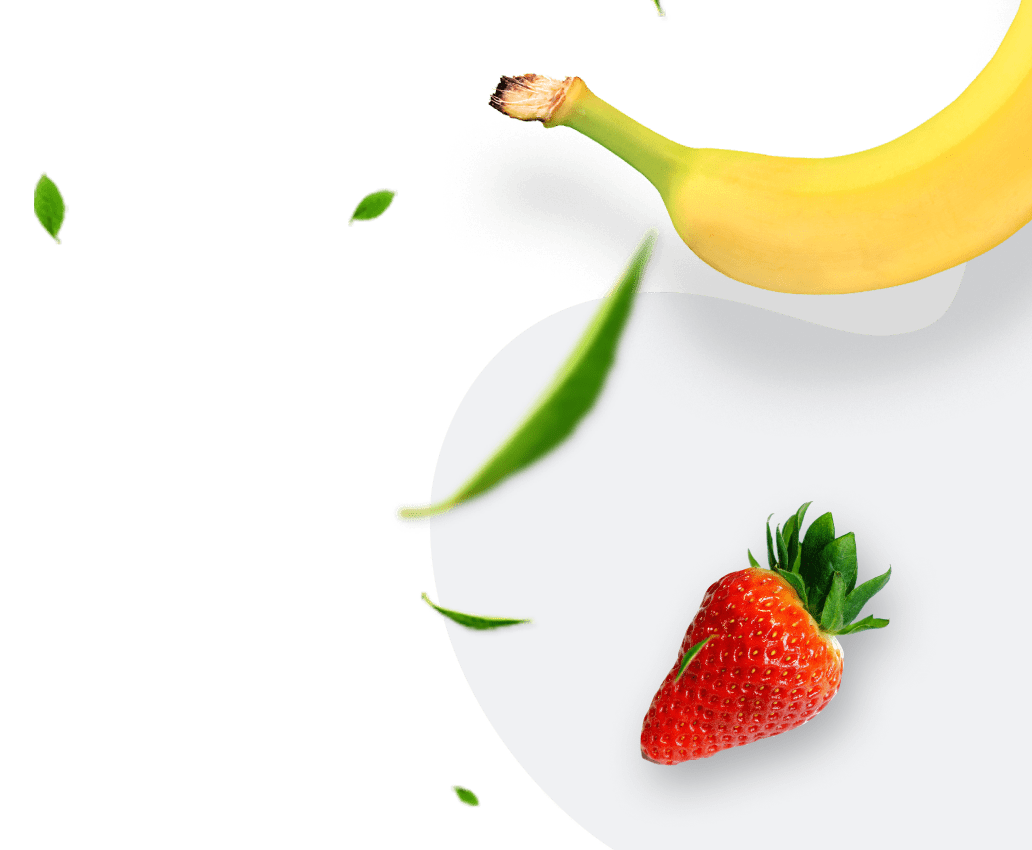
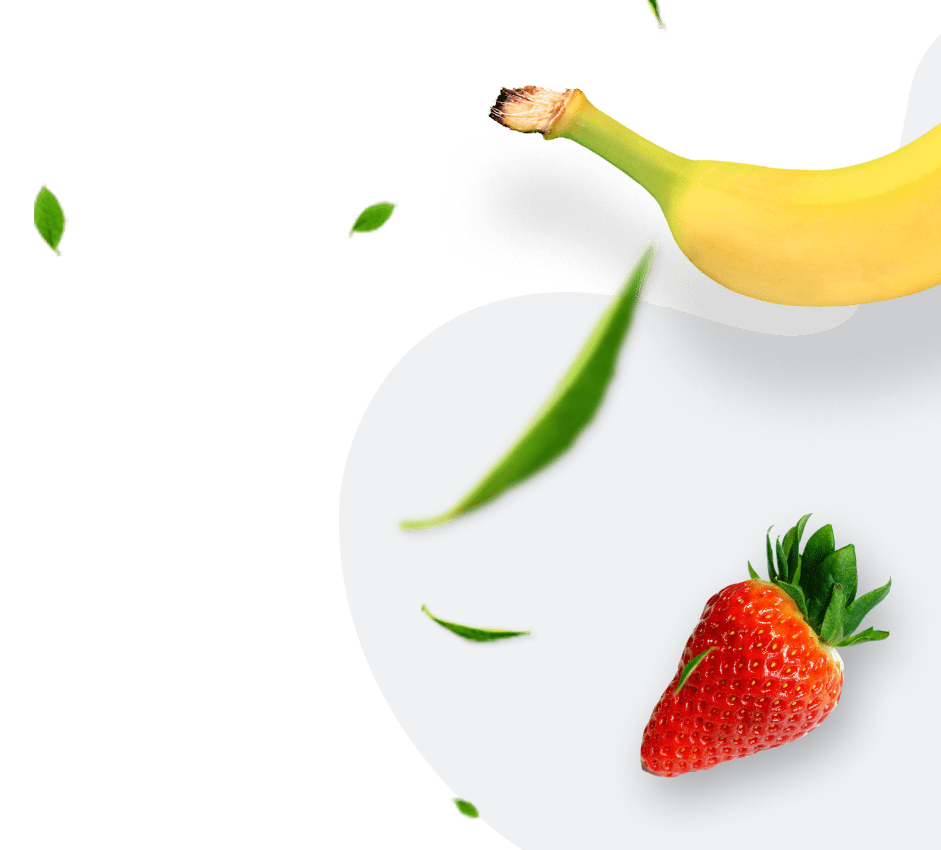
finish with background pictures

diff --git a/src/components/Background/Background.module.css b/src/components/Background/Background.module.css
@@ -1,64 +1,54 @@
 /* =============================in case if NOT login yet==================================================== */
 @media screen and (min-width: 768px) {
-  .background {
+  .backgroundHome {
     background: url(../../assets/png/backgroundTab_x1.png) no-repeat 100% 100%;
-    background-size: contain;
+    background-size: 768px 563px;
+  }
+  .backgroundDiaryCalc {
+    background: url(../../assets/png/backgroundDiaryTab_x1.png) no-repeat 100% 100%;
+    background-size: 369px 338px;
+  }
+  .backgroundAuth {
+    background: url(../../assets/png/backgroundTabAuth_x1.png) no-repeat 100% 100%;
+    background-size: 752px 944px;
   }
   @media screen and (min-device-pixel-ratio: 2),
     screen and (-webkit-min-device-pixel-ratio: 2),
     screen and (-o-min-device-pixel-ratio: 2/1),
     screen and (min-resolution: 192dpi),
     screen and (min-resolution: 2dppx) {
-    .background {
+    .backgroundHome {
       background-image: url(../../assets/png/backgroundTab_x2.png);
+    }
+    .backgroundDiaryCalc {
+      background-image: url(../../assets/png/backgroundDiaryTab_x2.png);
+    }
+    .backgroundAuth {
+      background: url(../../assets/png/backgroundTabAuth_x2.png) no-repeat 100% 100%;
     }
   }
 }
 
 @media screen and (min-width: 1280px) {
-  .background {
+  .backgroundHome {
     background: url(../../assets/png/backgroundAuthDeskTop_x1.png) no-repeat 100% 0%;
     background-size: contain;
   }
-  @media screen and (min-device-pixel-ratio: 2),
-    screen and (-webkit-min-device-pixel-ratio: 2),
-    screen and (-o-min-device-pixel-ratio: 2/1),
-    screen and (min-resolution: 192dpi),
-    screen and (min-resolution: 2dppx) {
-    .background {
-      background-image: url(../../assets/png/backgroundAuthDeskTop_x2.png);
-    }
-  }
-}
-/* =============================in case if login==================================================== */
 
-@media screen and (min-width: 768px) {
-  .background_with_login {
-    background: url(../../assets/png/backgroundDiaryTab_x1.png) no-repeat 100% 100%;
-    background-size: contain;
-  }
-  @media screen and (min-device-pixel-ratio: 2),
-    screen and (-webkit-min-device-pixel-ratio: 2),
-    screen and (-o-min-device-pixel-ratio: 2/1),
-    screen and (min-resolution: 192dpi),
-    screen and (min-resolution: 2dppx) {
-    .background_with_login {
-      background-image: url(../../assets/png/backgroundDiaryTab_x2.png);
-    }
-  }
-}
-
-@media screen and (min-width: 1280px) {
-  .background_with_login {
+  .backgroundDiaryCalc {
     background: url(../../assets/png/backgroundDiaryCalcDeskTop_x1.png) no-repeat 100% 0%;
     background-size: contain;
   }
+
   @media screen and (min-device-pixel-ratio: 2),
     screen and (-webkit-min-device-pixel-ratio: 2),
     screen and (-o-min-device-pixel-ratio: 2/1),
     screen and (min-resolution: 192dpi),
     screen and (min-resolution: 2dppx) {
-    .background_with_login {
+    .backgroundHome {
+      background-image: url(../../assets/png/backgroundAuthDeskTop_x2.png);
+    }
+    .backgroundDiaryCalc {
       background-image: url(../../assets/png/backgroundDiaryCalcDeskTop_x2.png);
     }
   }

diff --git a/src/components/Header/Header.jsx b/src/components/Header/Header.jsx
@@ -6,11 +6,12 @@ import Logo from 'components/Logo/Logo';
 import { ReactComponent as Burger } from 'assets/icons/burger.svg';
 import { useSelector } from 'react-redux';
 import { isLogin } from 'redux/auth/auth-selector';
+import { useState } from 'react';
 
 const Header = () => {
   // const isLoginIn = useSelector(isLogin);
-  // console.log('isLogin: ', isLogin);
-  const isLoginIn = true;
+  const isLoginIn = false;
+  const { menuActive, setMenuActive } = useState(false);
   return (
     <header className={s.header}>
       <nav className={s.nav}>
@@ -21,10 +22,16 @@ const Header = () => {
             <>
               <UserNav />
               <p className={s.nickName}>Nick</p>
-              <button type="button" className={s.ExitBtn} onClick={() => {}}>
+              <button type="button" className={s.exitBtn} onClick={() => {}}>
                 Exit
               </button>
-              <button type="button" className={s.burgerBtn}>
+              <button
+                type="button"
+                className={s.burgerBtn}
+                onClick={() => {
+                  setMenuActive(!menuActive);
+                }}
+              >
                 <Burger />
               </button>
             </>

diff --git a/src/components/Background/Background.js b/src/components/Background/Background.js
@@ -1,18 +1,29 @@
 import s from './Background.module.css';
 import { useSelector } from 'react-redux';
 import { isLogin } from 'redux/auth/auth-selector';
+import { useLocation } from 'react-router-dom';
 
 const Background = ({ children }) => {
   // const isLoginIn = useSelector(isLogin);
+  const { pathname } = useLocation();
+  const isLoginIn = false;
+  const style = (function () {
+    if (pathname === '/register' || pathname === '/login') {
+      if (window.innerWidth >= 1280) {
+        return s.backgroundHome;
+      }
+      return s.backgroundAuth;
+    } else if (isLoginIn) {
+      return s.backgroundDiaryCalc;
+    } else {
+      return s.backgroundHome;
+    }
+  })();
 
-  const isLoginIn = true;
+  console.log('style: ', style);
   return (
     <>
-      {isLoginIn ? (
-        <div className={s.background_with_login}>{children}</div>
-      ) : (
-        <div className={s.background}>{children}</div>
-      )}
+      <div className={style}>{children}</div>
     </>
   );
 };

diff --git a/src/components/App.jsx b/src/components/App.jsx
@@ -1,4 +1,4 @@
-import React from 'react';
+import React, { useState } from 'react';
 import Container from './Container/Container';
 import Header from './Header/Header';
 import PagesRoutes from 'PagesRoutes/PagesRoutes';
@@ -10,13 +10,14 @@ import Background from './Background/Background';
 
 const App = () => {
   const BurgerMenuVision = false;
+  // const { menuActive, setMenuActive } = useState(false);
 
   return (
     <>
       <Background>
-        <Header />
+        <Header /*menuActive={menuActive} setMenuActive={setMenuActive}*/ />
         {BurgerMenuVision ? (
-          <BurgerMenu />
+          <BurgerMenu /* menuActive={menuActive}*/ />
         ) : (
           <Container>
             <PagesRoutes />

diff --git a/src/components/BurgerMenu/BurgerMenu.js b/src/components/BurgerMenu/BurgerMenu.js
@@ -1,11 +1,14 @@
 import s from './BurgerMenu.module.css';
 
 import { NavLink } from 'react-router-dom';
-
 import { links } from '../UserNav/links';
 
 const getLinkClassName = ({ isActive }) => {
+  console.log('isActive: ', isActive);
   return isActive ? s.activeLink : s.link;
+};
+const isActiveBurgerMenu = ({ menuActive }) => {
+  return menuActive ? s.menuActive : s.menu;
 };
 
 const BurgerMenu = () => {
@@ -17,7 +20,7 @@ const BurgerMenu = () => {
     </li>
   ));
   return (
-    <div className={s.menu}>
+    <div className={isActiveBurgerMenu}>
       <div className={s.menuContent}>
         <ul className={s.nav}>{elements}</ul>
       </div>

diff --git a/src/components/BurgerMenu/BurgerMenu.module.css b/src/components/BurgerMenu/BurgerMenu.module.css
@@ -1,16 +1,24 @@
 .menu {
-  position: fixed;
+  /* position: fixed;
   width: 100vw;
-  height: 100vh;
+  height: 100vh; */
   top: 80px;
+  translate: translateX(200%);
+  transition: all 0.2s ease-in-out;
+}
+.menuActive {
+  transform: translateX(100%);
 }
 .menuContent {
-  width: 100%;
-  height: 100%;
+  /* width: 100%;
+  height: 100%; */
+  width: 100vw;
+  height: 100vh;
   background-color: var(--third-color);
   display: flex;
   flex-direction: column;
   align-items: center;
+  /* transition: all 0.2s ease-in-out; */
 }
 
 .link {

diff --git a/src/components/Header/Header.module.css b/src/components/Header/Header.module.css
@@ -6,7 +6,7 @@
 .nav {
   display: flex;
   flex-direction: column;
-  
+
   /* position: fixed; */
 }
 .block {
@@ -35,7 +35,7 @@
   width: 2px;
   background-color: #e0e0e0;
 }
-.ExitBtn {
+.exitBtn {
   display: inline-block;
   text-decoration: none;
   padding: 15px 0 13px 16px;
@@ -43,10 +43,10 @@
   font-weight: 700;
   line-height: 0.95;
 }
-.ExitBtn:hover {
+.exitBtn:hover {
   color: var(--second-color);
 }
-.ExitBtn:not(:last-child) {
+.exitBtn:not(:last-child) {
   margin-right: 20px;
 }
 

diff --git a/src/pages/HomePage/HomePage.js b/src/pages/HomePage/HomePage.js
@@ -4,9 +4,11 @@ import CalculatorСalorieForm from 'components/DailyCaloriesForm/DailyCaloriesFo
 const HomePage = () => {
   return (
     <main>
-      <h3 className={s.title}>HomePage </h3>
+      <div className={s.container}>
+        <h3 className={s.title}>HomePage </h3>
 
-      <CalculatorСalorieForm />
+        <CalculatorСalorieForm />
+      </div>
     </main>
   );
 };

diff --git a/src/pages/RegistrationPage/RegistrationPage.js b/src/pages/RegistrationPage/RegistrationPage.js
@@ -1,5 +1,6 @@
 import s from './RegistrationPage.module.css';
 import RegistrationForm from 'components/RegistrationForm/RegistrationForm';
+import { useLocation } from 'react-router-dom';
 // import { useDispatch } from 'react-redux';
 
 const RegistrationPage = () => {

diff --git a/src/pages/LoginPage/LoginPage.js b/src/pages/LoginPage/LoginPage.js
@@ -8,7 +8,8 @@ const LoginPage = () => {
   return (
     <main>
       <div className={s.container}>
-        <h3>LoginPage</h3>
+        <h3>LoginPage </h3>
+
         <LoginForm />
       </div>
     </main>

diff --git a/src/pages/HomePage/HomePage.module.css b/src/pages/HomePage/HomePage.module.css
@@ -1,2 +1,5 @@
-.title {
+@media screen and (min-width: 768px) {
+  .container {
+    min-height: 100vh;
+  }
 }

diff --git a/src/pages/LoginPage/LoginPage.module.css b/src/pages/LoginPage/LoginPage.module.css
@@ -1,2 +1,4 @@
 .container {
+  min-height: 100vh;
+  padding-bottom: 495px;
 }
